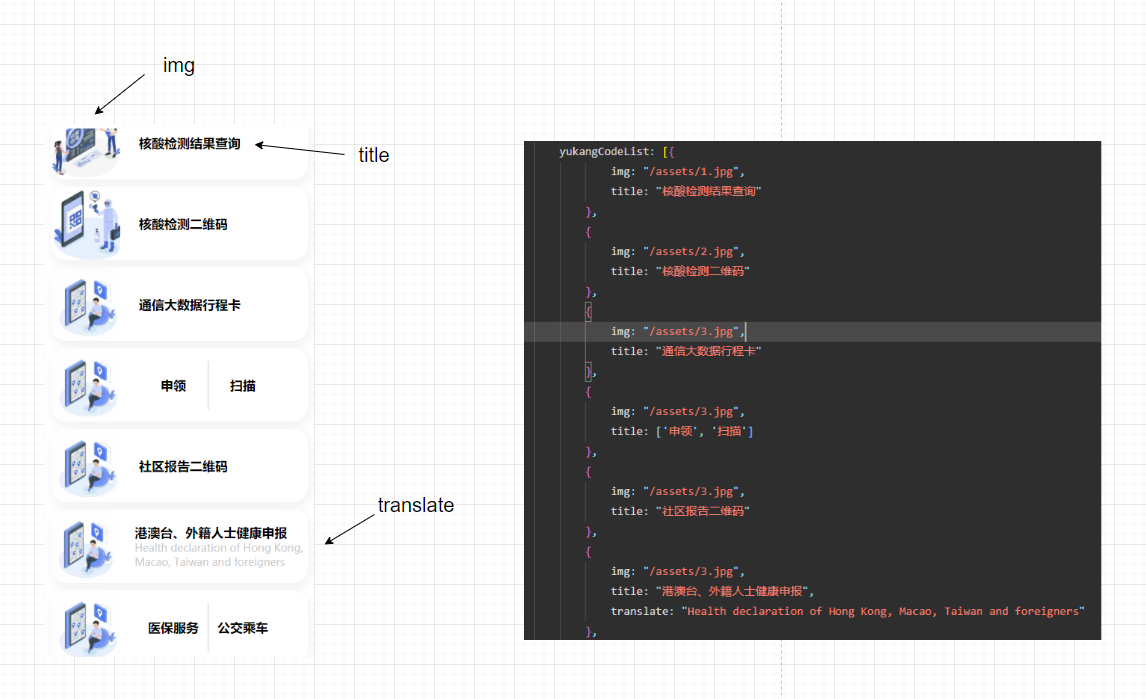
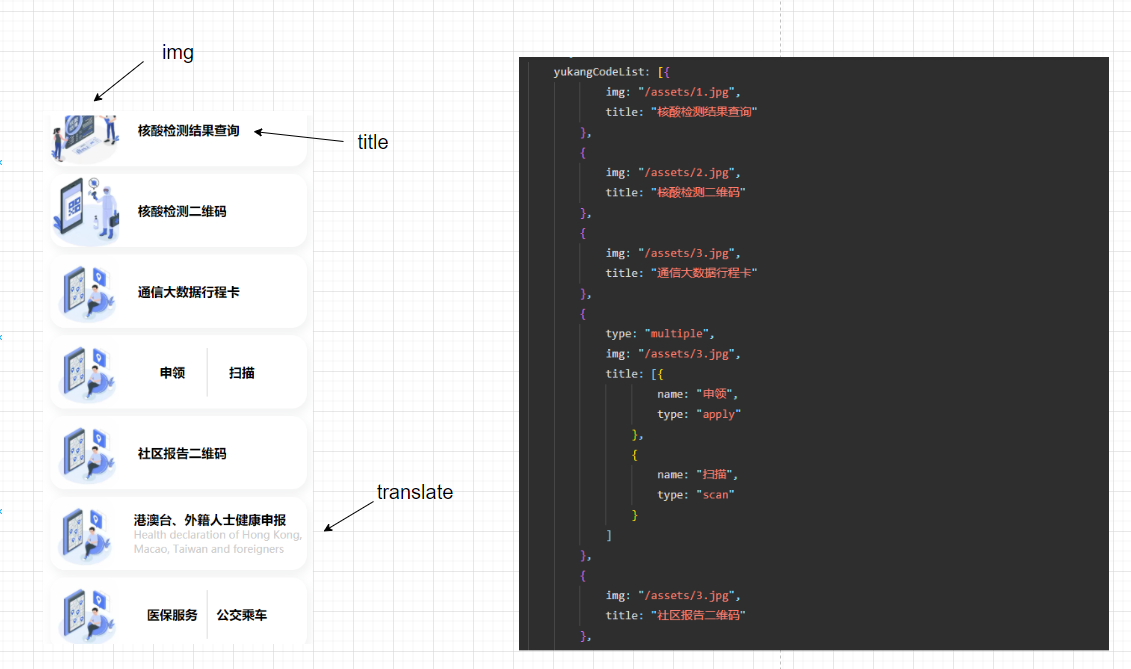
渝康码修改

diff --git a/pages/code/code.js b/pages/code/code.js
@@ -18,8 +18,17 @@ Page({
                 title: "通信大数据行程卡"
             },
             {
+                type: "multiple",
                 img: "/assets/3.jpg",
-                title: ['申领', '扫描']
+                title: [{
+                        name: "申领",
+                        type: "apply"
+                    },
+                    {
+                        name: "扫描",
+                        type: "scan"
+                    }
+                ]
             },
             {
                 img: "/assets/3.jpg",
@@ -31,8 +40,17 @@ Page({
                 translate: "Health declaration of Hong Kong, Macao, Taiwan and foreigners"
             },
             {
+                type: "multiple",
                 img: "/assets/3.jpg",
-                title: ['医保服务', '公交乘车']
+                title: [{
+                        name: "医保服务",
+                        type: "service"
+                    },
+                    {
+                        name: "公交乘车",
+                        type: "bus"
+                    }
+                ]
             },
             {
                 img: "/assets/3.jpg",
@@ -100,7 +118,7 @@ Page({
      * 生命周期函数--监听页面显示
      */
     onShow: function () {
-       
+
     },
 
     /**

diff --git a/components/yukangCode/yukangCode.js b/components/yukangCode/yukangCode.js
@@ -32,7 +32,41 @@ Component({
      * 组件的方法列表
      */
     methods: {
-
+        multipleClick(e) {
+            let name = e.currentTarget.dataset.name
+            let type = e.currentTarget.dataset.type
+            console.log(name, type)
+            if (name == "apply") {
+                console.log('去申领页面')
+            }
+            if (type == "scan") {
+                wx.scanCode({
+                    success(res) {
+                        console.log(res)
+                    }
+                })
+            }
+        },
+        singleClick(e) {
+            let name = e.currentTarget.dataset.name
+            console.log(name)
+        },
+        translateClick(e) {
+            let name = e.currentTarget.dataset.name
+            console.log(name)
+        },
+        reportClick(e) {
+            let name = e.currentTarget.dataset.name
+            console.log(name)
+        },
+        serverClick(e) {
+            let name = e.currentTarget.dataset.name
+            console.log(name)
+        },
+        feverClick(e) {
+            let name = e.currentTarget.dataset.name
+            console.log(name)
+        }
 
     }
 

diff --git a/README.md b/README.md
@@ -20,7 +20,7 @@
 3.示例：
 ## list:
 
-![](https://s1.ax1x.com/2022/05/07/OQZhff.md.png)
+![](https://s1.ax1x.com/2022/05/09/OGn5LV.png)
 
 ## reportList:
 
